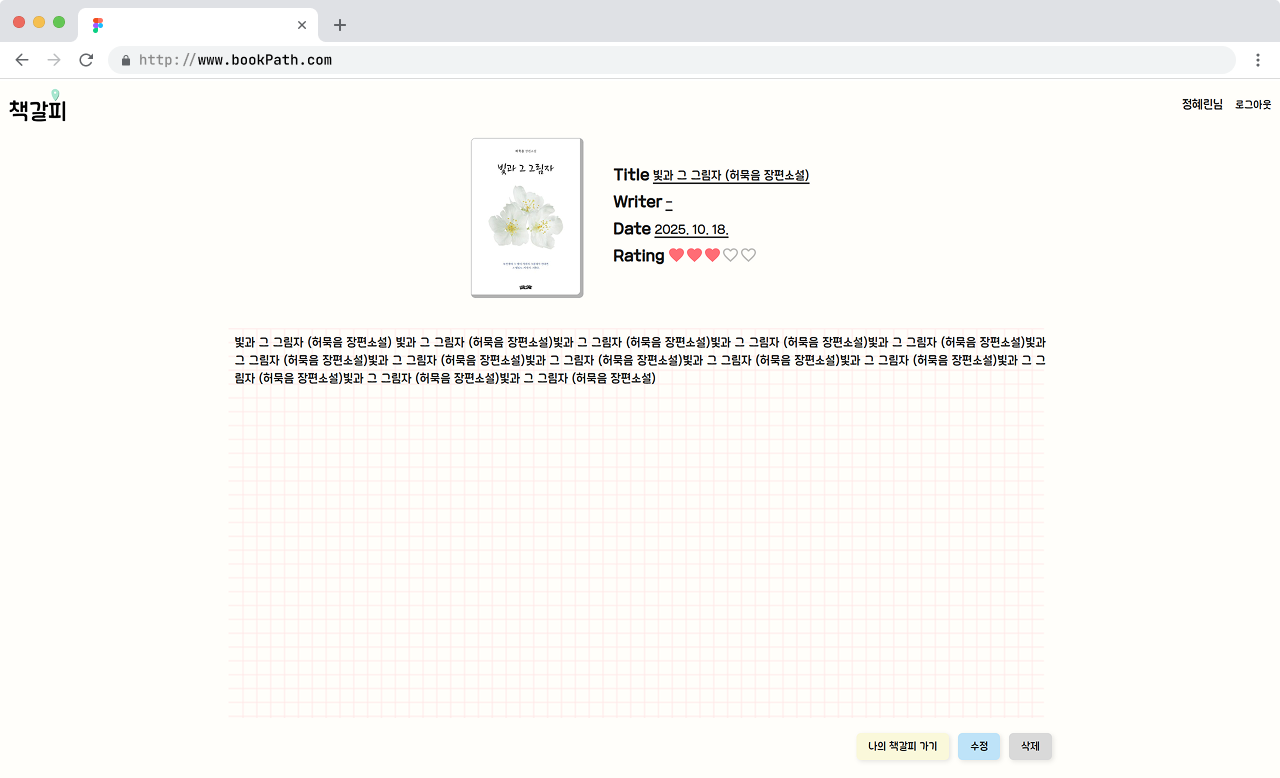
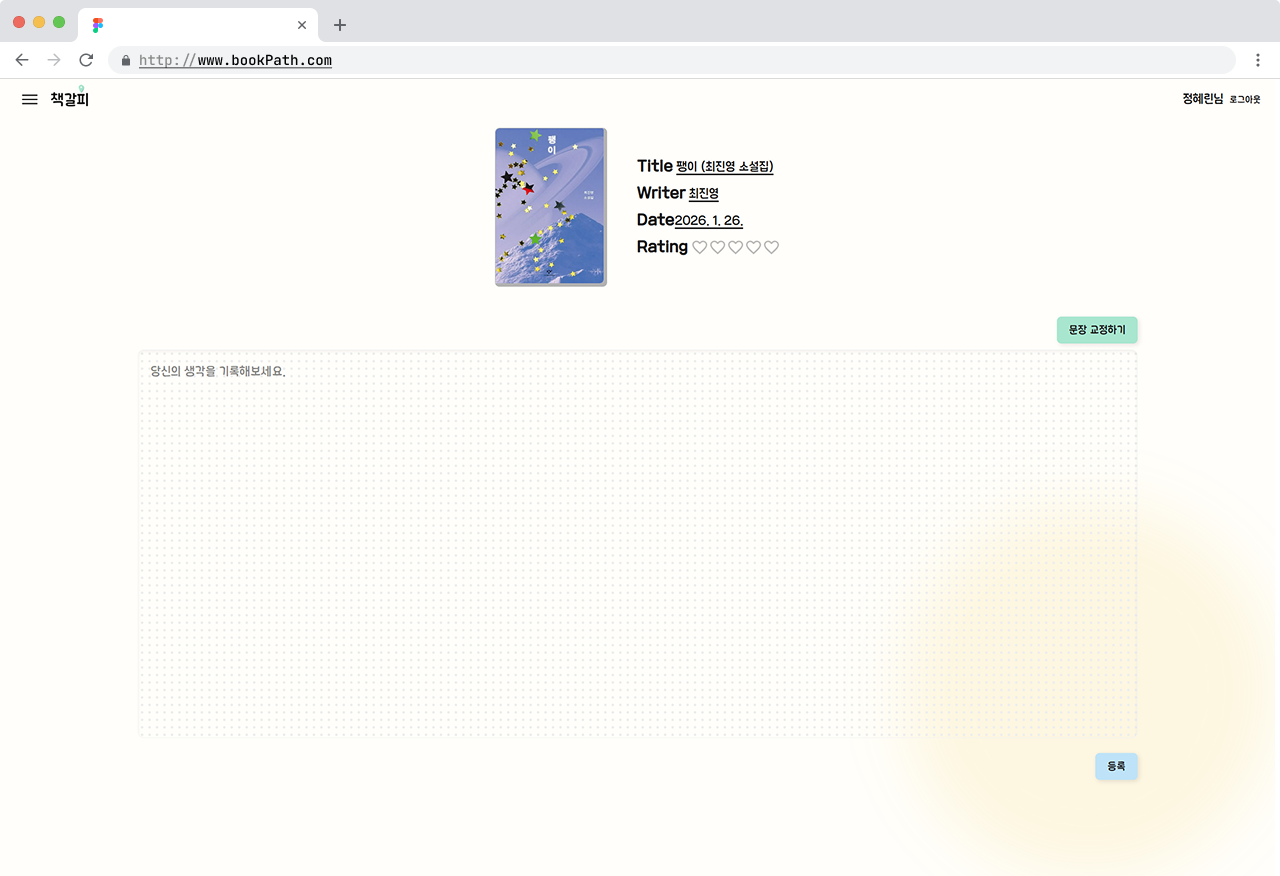
content: 내용 추가

diff --git a/src/components/unit/project/bookPath.tsx b/src/components/unit/project/bookPath.tsx
@@ -94,12 +94,12 @@ export function BookPath() {
                         {
                             img: '/image/book_path/img01.png',
                             title: '독후감 CRUD 기능',
-                            desc: ['Firebase를 활용한 CRUD 구현', 'Google OAuth 기반 유저 인증 처리', 'react-hook-form을 통한 입력값 유효성 검증', '등록 모드와 수정 모드를 구분하여 관리'],
+                            desc: ['Firebase를 활용한 CRUD 구현', 'Google OAuth 기반 유저 인증 처리', 'react-hook-form을 통한 입력값 유효성 검증', '등록 모드와 수정 모드를 구분하여 관리', 'Gemini API 기반 독후감 문체 교정 및 자동 맞춤법 검사 기능 개발'],
                         },
                         {
                             img: '/image/book_path/img02.png',
                             title: '내가 작성한 독후감 보기',
-                            desc: ['Google 로그인 기반 유저 개인 데이터 조회 및 렌더링', '동적 라우팅 [isbn].tsx 파일을 통해 각 도서의 고유 isbn 값에 따라 독후감 상세 페이지를 동적으로 렌더링하도록 구현'],
+                            desc: ['Google 로그인 기반 유저 개인 데이터 조회 및 렌더링', '동적 라우팅 [isbn].tsx 파일을 통해 각 도서의 고유 isbn 값에 따라 독후감 상세 페이지를 동적으로 렌더링하도록 구현', '월별 독서량을 Recharts 플러그인으로 구현'],
                         },
                         {
                             img: '/image/book_path/img05.png',

diff --git a/src/components/ui/header.tsx b/src/components/ui/header.tsx
@@ -4,7 +4,7 @@ export default function Header() {
     return (
         <header className="flex justify-between items-center border-2 p-3 h-[60px]  bg-white">
             <h1 className="md:text-3xl sm:text-xl text-lg  font-bold hover:bg-[#5A93FF] hover:text-white">
-                <Link href="/">HeyRin Portfolio</Link>
+                <Link href="/">HyeRin Portfolio</Link>
             </h1>
 
             <div className="flex md:gap-5 sm:gap-3 gap-1">
